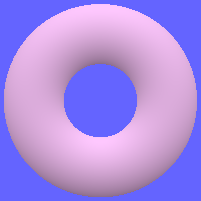
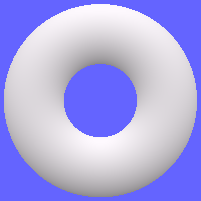
adding intersection

diff --git a/rayon.py b/rayon.py
@@ -39,7 +39,7 @@ class Camera( object):
         self.oz= oz #vertical du spectateur
         self.hsizeworld=hsizeworld
         self.hsizewin=hsizewin
-        self.soleil = normalize3( soleil)
+        self.soleil = normalize3(soleil)
         self.background=(100,100, 255)
         self.nom= "img.png"
 
@@ -56,15 +56,15 @@ class Camera( object):
         return e.topolent()
 
 class Prim(Obj):
-    def __init__( self, fonc_xyz, color):
+    def __init__(self, fonc_xyz, color):
         self.fonc=fonc_xyz
         self.color=color
 
-    def intersection( self, rayon):
+    def intersection(self, rayon):
         dico = { "x": Nb(rayon.source[0]) + Nb(rayon.dir[0])*Var("t"),
         "y": Nb(rayon.source[1]) + Nb(rayon.dir[1])*Var("t"),
         "z": Nb(rayon.source[2]) + Nb(rayon.dir[2])*Var("t")}
-        expression_en_t=self.fonc.evalsymb( dico)
+        expression_en_t=self.fonc.evalsymb(dico)
         pol_t = topolent(expression_en_t)
         return racines(1e-9,pol_t)
 
@@ -87,13 +87,111 @@ def clamp(mi, ma, v):
 
 def raycasting(cam, objet):
     img=Image.new("RGB", (2*cam.hsizewin+1, 2*cam.hsizewin+1), (255,255,255))
-    for xpix in range( -cam.hsizewin, cam.hsizewin+1, 1):
-        for zpix in range( -cam.hsizewin, cam.hsizewin+1, 1):
-            rayon= cam.generate_ray( xpix, zpix)
-            roots=objet.intersection( rayon)
+    for xpix in range(-cam.hsizewin, cam.hsizewin+1, 1):
+        for zpix in range(-cam.hsizewin, cam.hsizewin+1, 1):
+            rayon= cam.generate_ray(xpix, zpix)
+            roots=objet.intersection(rayon)
             if None==roots:
                 (r,v,b)= cam.background
             else:
+                t= hd(roots) # roots[0] #c'est le 1er element (un t) de la pire (tete, queue)
+                pt=(xo,yo,zo)= (rayon.source[0]+ t*rayon.dir[0],
+                rayon.source[1]+ t*rayon.dir[1],
+                rayon.source[2]+ t*rayon.dir[2])
+                (a,b,c)=normalize3(objet.normale(pt))
+                (rr,vv,bb)=objet.color
+                (rr,vv,bb)= (float(rr), float(vv), float(bb))
+                ps=pscal3((a,b,c), cam.soleil)
+                if ps < -1. or 1 < ps:
+                    print("PS="+str(ps))
+                    ps = clamp(-1., 1., ps)
+                coef= interpole(-1., 0.5, 1., 1., ps)
+                r=coef*rr
+                v=coef*vv
+                b=coef*bb
+                (r,v,b) = (int(r), int(v), int(b))
+            img.putpixel(
+            (xpix+cam.hsizewin,
+            2*cam.hsizewin-(zpix+cam.hsizewin)),
+            (r,v,b))
+    img.show()
+    img.save( cam.nom)
+
+oeil=(0.001,-4.,0.003)
+droite= (1.,0.,0.)
+regard= (0.,1.,0.)
+vertical=(0.,0.,1.)
+#le repere local est tel que regard=oy, vertical=oz, droite=ox, o=oeil
+
+intersection = 'intersection'
+union = 'union'
+diff = 'difference'
+
+def raycastingIntersection(cam,object0,object1):
+    if(object0==None or object1==None):
+        print("raycasting erreur : un paramètre est null")
+    else:  
+        img=Image.new("RGB", (2*cam.hsizewin+1, 2*cam.hsizewin+1), (255,255,255))
+        for xpix in range(-cam.hsizewin, cam.hsizewin+1, 1):
+            for zpix in range(-cam.hsizewin, cam.hsizewin+1, 1):
+                rayon= cam.generate_ray( xpix, zpix)
+                roots_obj0 = object0.intersection(rayon)
+                if roots_obj0==None:
+                    (r,v,b)= cam.background
+                else:
+                    roots_obj1 = object1.intersection(rayon)
+                    if roots_obj1 == None:
+                        (r,v,b)= cam.background
+                    else:
+                        t= hd(roots_obj0) # roots[0] #c'est le 1er element (un t) de la pire (tete, queue)
+                        pt=(xo,yo,zo)= (rayon.source[0]+ t*rayon.dir[0],
+                        rayon.source[1]+ t*rayon.dir[1],
+                        rayon.source[2]+ t*rayon.dir[2])
+                        (a,b,c)=normalize3(object0.normale(pt))
+                        (rr0,vv0,bb0)=object0.color
+                        (rr0,vv0,bb0)= (float(rr0), float(vv0), float(bb0))
+                        (rr1,vv1,bb1)=object1.color
+                        (rr1,vv1,bb1)= (float(rr1), float(vv1), float(bb1))
+                        (rr,vv,bb)= ((rr0+rr1)/2, (vv0+vv1)/2, (bb0+bb1)/2)
+                        ps=pscal3((a,b,c), cam.soleil)
+                        if ps < -1. or 1 < ps:
+                            print("PS="+str(ps))
+                            ps = clamp( -1., 1., ps)
+                        coef= interpole( -1., 0.5, 1., 1., ps)
+                        r=coef*rr
+                        v=coef*vv
+                        b=coef*bb
+                        (r,v,b) = (int(r), int(v), int(b))
+                img.putpixel(
+                (xpix+cam.hsizewin,
+                2*cam.hsizewin-(zpix+cam.hsizewin)),
+                (r,v,b))
+        img.show()
+        img.save( cam.nom)
+'''
+def _raycasting(cam, operation_type,object0,object1):
+    if(object0==None or object1==None):
+        print("raycasting erreur : un paramètre est null")
+    img=Image.new("RGB", (2*cam.hsizewin+1, 2*cam.hsizewin+1), (255,255,255))
+    for xpix in range( -cam.hsizewin, cam.hsizewin+1, 1):
+        for zpix in range( -cam.hsizewin, cam.hsizewin+1, 1):
+            rayon= cam.generate_ray( xpix, zpix)
+            roots_obj0 = 0
+            roots_obj1 = 0 
+            roots=objet.intersection(rayon)
+            doTreatment = 0
+            if operation_type==union :
+                return 0
+            elif operation_type==intersection:
+                if roots_obj0 == None or roots_obj1 == None:
+                    (r,v,b)= cam.background
+                else:
+                    doTreatment
+            elif operation_type==diff:
+                return 0
+            else:
+                print('raycasting erreur : operation_type est invalide. intersection, union, diff sont les seuls choix valide')
+            if doTreatment == 1:
                 t= hd(roots) # roots[0] #c'est le 1er element (un t) de la pire (tete, queue)
                 pt=(xo,yo,zo)= (rayon.source[0]+ t*rayon.dir[0],
                 rayon.source[1]+ t*rayon.dir[1],
@@ -120,8 +218,7 @@ oeil=(0.001,-4.,0.003)
 droite= (1.,0.,0.)
 regard= (0.,1.,0.)
 vertical=(0.,0.,1.)
-#le repere local est tel que regard=oy, vertical=oz, droite=ox, o=oeil
-
+'''
 camera=Camera( oeil, droite, regard, vertical, 1.5, 100, normalize3((0., -1., 2.)))
 def boule(tup1, r):
     (cx,cy,cz) = tup1
@@ -149,11 +246,6 @@ def steiner4():
     z=Var("z")
     return y * y - Nb( 2.) * x * y * y - x * z * z + x * x * y * y + x * x * z * z - z * z * z * z
 
-camera.nom="boule.png"
-raycasting( camera, Prim( boule( (0., 2., -0.5), 1.), ((255,255,255))))
-camera.nom="tore.png"
-raycasting( camera, Prim( tore(0.45, 1.), (255,200, 255)))
-
 def hyperboloide_2nappes():
     x=Var("x")
     y=Var("y")
@@ -173,17 +265,39 @@ def roman():
     return ( x * x * y * y + x * x * z * z + y * y * z * z - Nb(2.) * x * y * z)
 
 
+
+tore = Prim(tore(0.45, 1.), ((255,250, 255)))
+boule = Prim(boule( (0., 2., -0.5), 1.), (255,250, 255))
+
+camera.nom="boule.png"
+raycasting(camera,boule)
+
+camera.nom="tore.png"
+raycasting(camera,tore)
+
+camera.nom="intersection.png"
+raycastingIntersection(camera,tore,boule)
+'''
+camera.nom="boule.png"
+raycasting(camera, Prim( boule( (0., 2., -0.5), 1.), ((255,255,255))))
+
+camera.nom="tore.png"
+raycasting(camera, Prim( tore(0.45, 1.), (255,200, 255)))
+
 camera.hsizeworld=10.
 camera.nom="steiner2.png"
 raycasting( camera, Prim( steiner2(), (255,200, 255)))
-'''
+
 camera.hsizeworld=1.5
 camera.nom="roman.png"
 raycasting( camera, Prim( roman(), (255,200, 255)))
+
 camera.nom="hyper1.png"
 raycasting( camera, Prim( hyperboloide_1nappe(), (255,200, 255)))
+
 camera.nom="hyper2.png"
 raycasting( camera, Prim( hyperboloide_2nappes(), (255,200, 255)))
+
 camera.nom="steiner4.png"
 raycasting( camera, Prim( steiner4(), (255,200, 255)))
 '''
